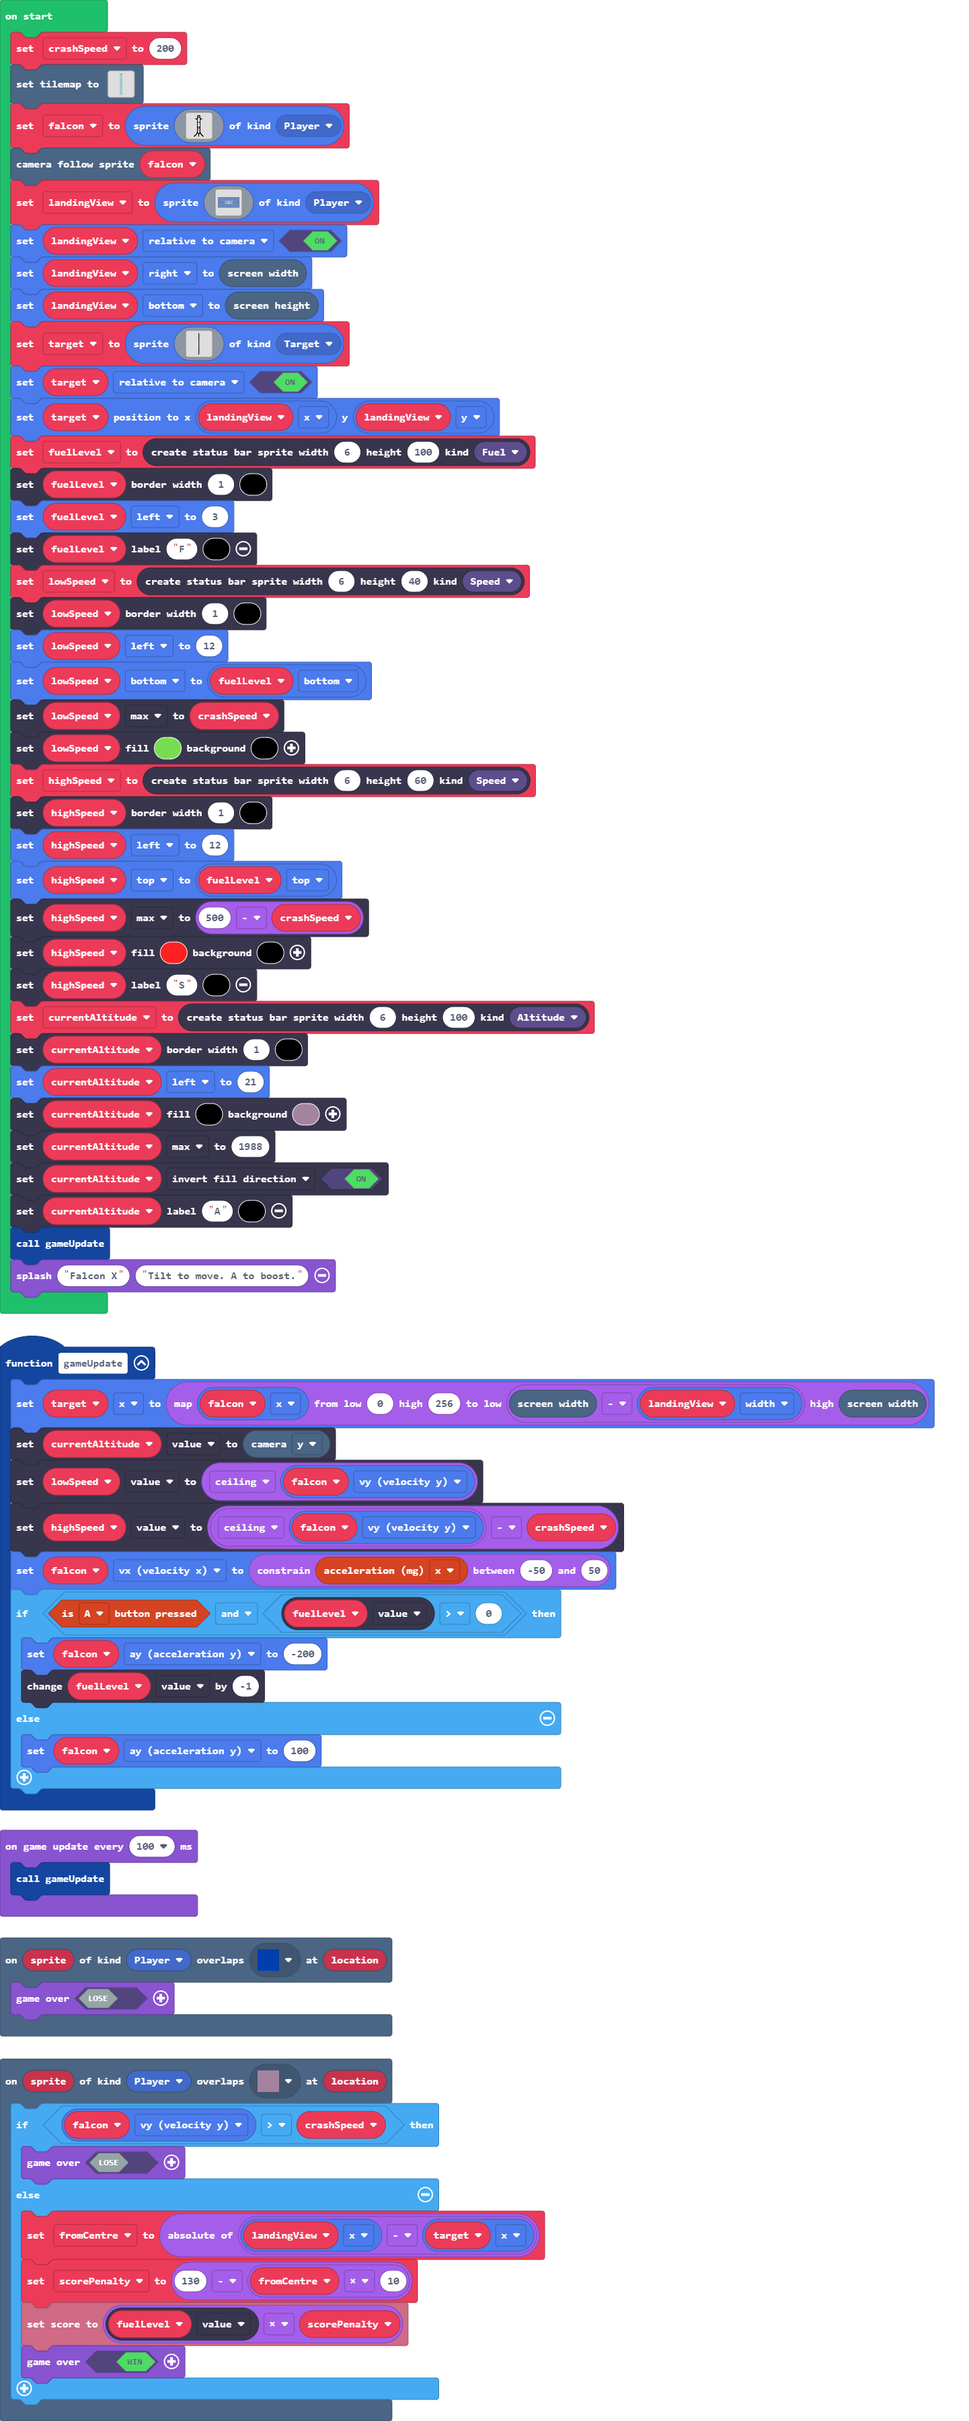
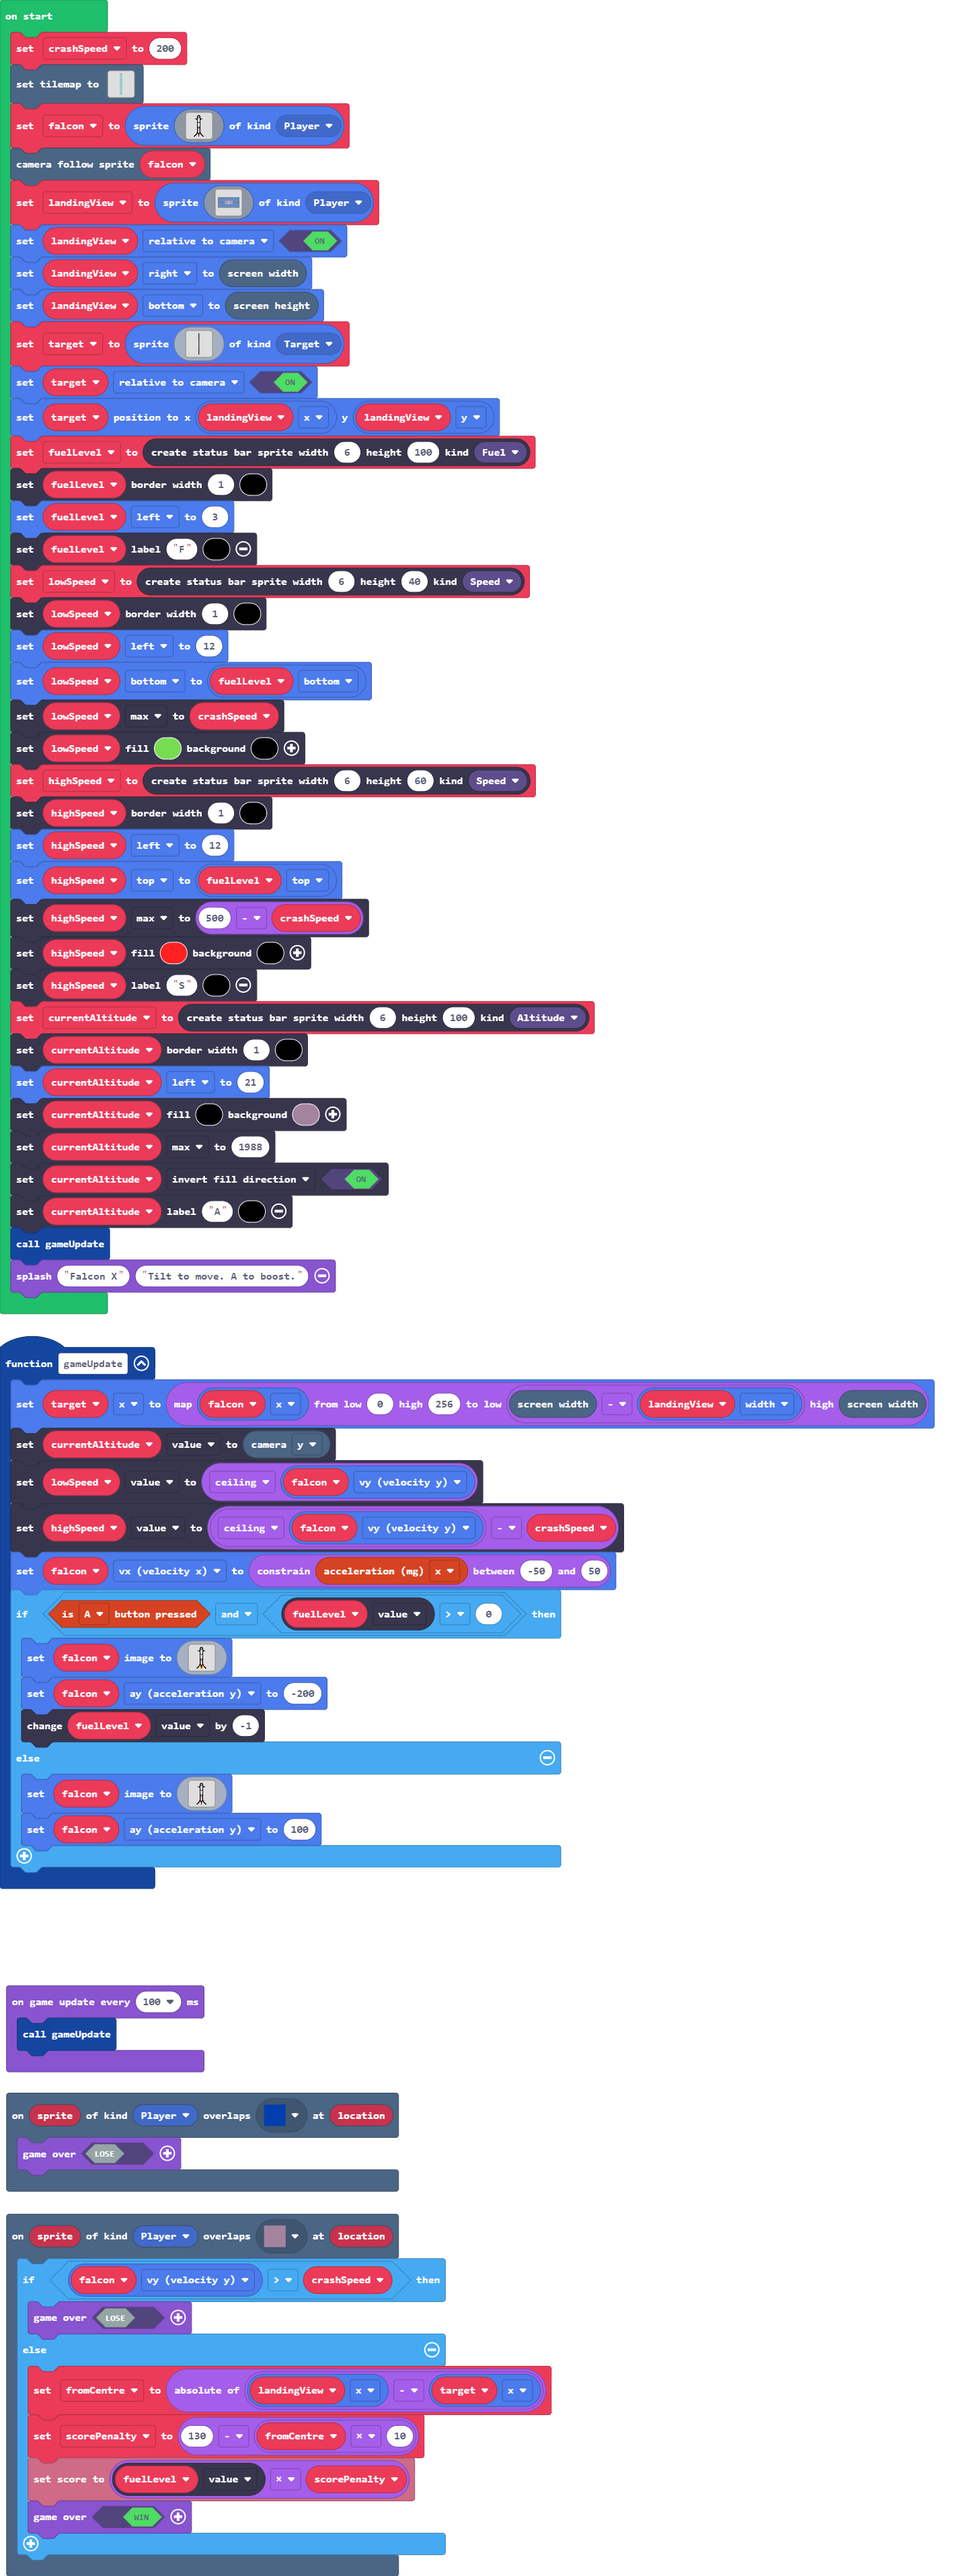
Add falcon booster sprite.

diff --git a/main.ts b/main.ts
@@ -27,9 +27,77 @@ function gameUpdate () {
     highSpeed.value = Math.ceil(falcon.vy) - crashSpeed
     falcon.vx = Math.constrain(controller.acceleration(ControllerDimension.X), -50, 50)
     if (controller.A.isPressed() && fuelLevel.value > 0) {
+        falcon.setImage(img`
+            ......fff......
+            .....ff1ff.....
+            .....f1f1f.....
+            .....ff1ff.....
+            .....f1f1f.....
+            ..ffff111ffff..
+            ....ff111ff....
+            .....f111f.....
+            .....f111f.....
+            .....f111f.....
+            .....ff1ff.....
+            .....f1f1f.....
+            .....f111f.....
+            .....f111f.....
+            .....f111f.....
+            .....f111f.....
+            .....f111f.....
+            .....ff1ff.....
+            .....fbfbf.....
+            .....fbbbf.....
+            .....fbbbf.....
+            .....fb1bf.....
+            .....fb1bf.....
+            .....fb1bf.....
+            .....fb1bf.....
+            .....fb1bf.....
+            ....fff1fff....
+            ....f4fff4f....
+            ...f442f254f...
+            ..ff545f445ff..
+            .ff..54f45..ff.
+            ff....5f5....ff
+            `)
         falcon.ay = -200
         fuelLevel.value += -1
     } else {
+        falcon.setImage(img`
+            ......fff......
+            .....ff1ff.....
+            .....f1f1f.....
+            .....ff1ff.....
+            .....f1f1f.....
+            ..ffff111ffff..
+            ....ff111ff....
+            .....f111f.....
+            .....f111f.....
+            .....f111f.....
+            .....ff1ff.....
+            .....f1f1f.....
+            .....f111f.....
+            .....f111f.....
+            .....f111f.....
+            .....f111f.....
+            .....f111f.....
+            .....ff1ff.....
+            .....fbfbf.....
+            .....fbbbf.....
+            .....fbbbf.....
+            .....fb1bf.....
+            .....fb1bf.....
+            .....fb1bf.....
+            .....fb1bf.....
+            .....fb1bf.....
+            ....fff1fff....
+            ....f4fff4f....
+            ...ff.4f4.ff...
+            ..ff...f...ff..
+            .ff....f....ff.
+            ff.....f.....ff
+            `)
         falcon.ay = 100
     }
 }
